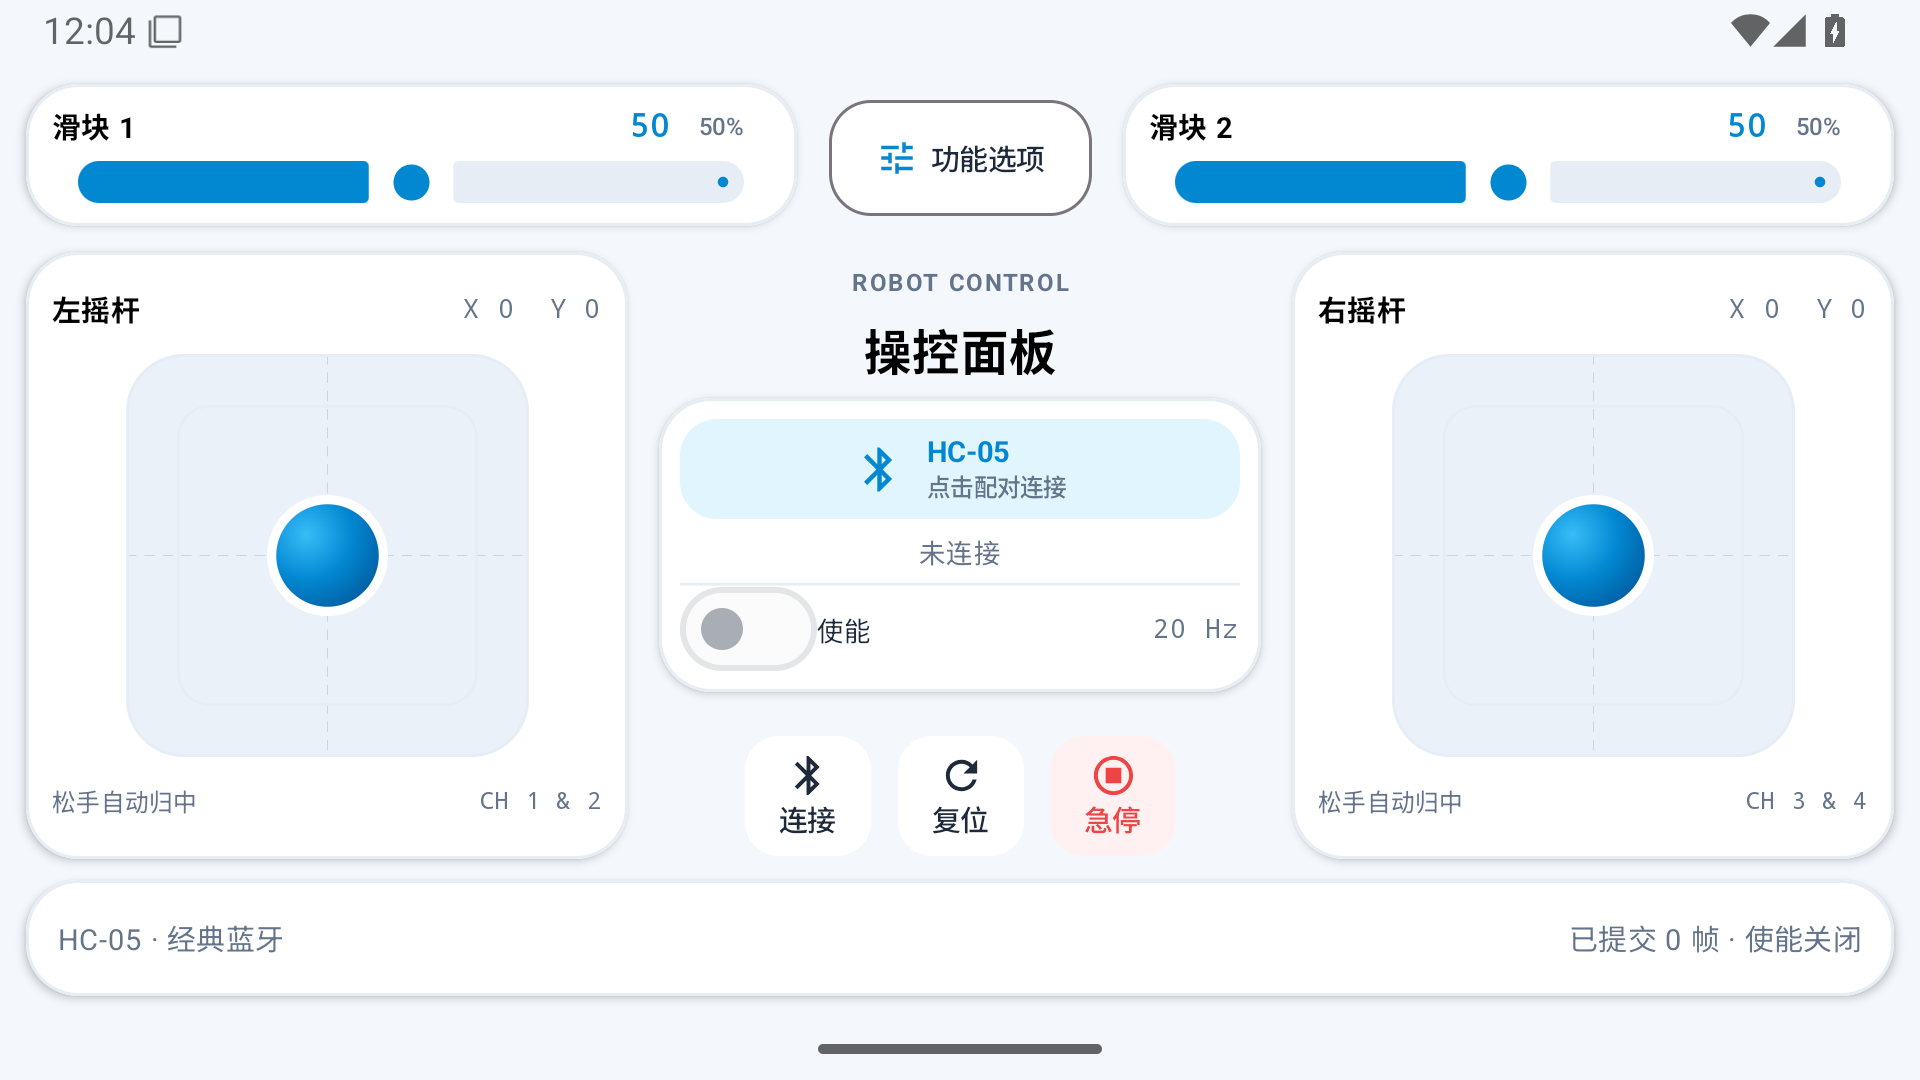
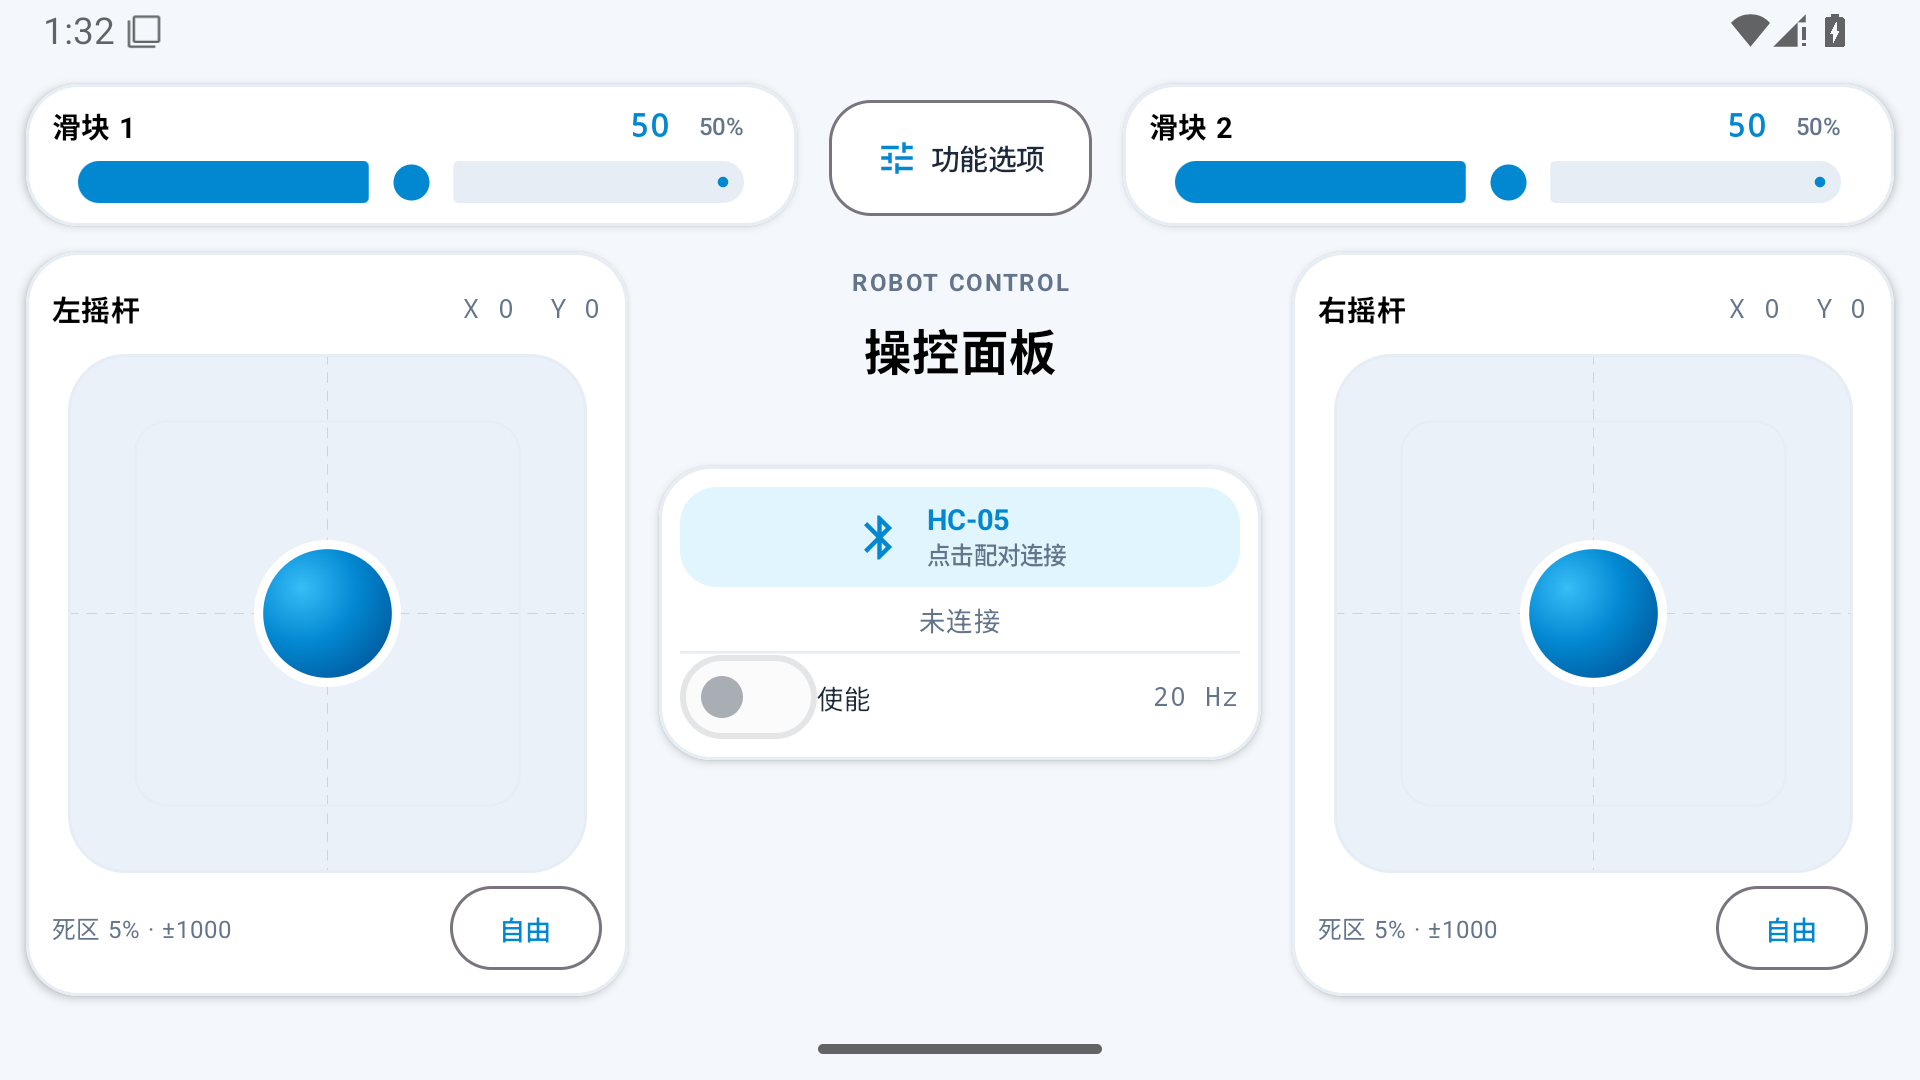
docs: record v1.2 verification and updated controller screenshot

diff --git a/docs/superpowers/plans/2026-10-10-joystick-settings.md b/docs/superpowers/plans/2026-10-10-joystick-settings.md
@@ -14,19 +14,21 @@
 - 签名凭据只留本机。
 
 ### Task 1: 输入映射
-- [ ] 新建 JoystickConfigTest.kt：5% 死区下输入 (525,40) 输出 (500,0)；横向 (1000,1000) 输出 (1000,0)；纵向输出 (0,1000)；设置最大值 255 对应端点 ±255。
-- [ ] 运行测试，确认因缺少 JoystickConfig 而失败。
-- [ ] 新建 JoystickConfig.kt：JoystickMode 枚举、配置与 map(x:Int,y:Int):Pair<Int,Int>，独立线性死区映射与限幅。
-- [ ] 全部 Kotlin 单元测试通过。
+- [x] 新建 JoystickConfigTest.kt：5% 死区下输入 (525,40) 输出 (500,0)；横向 (1000,1000) 输出 (1000,0)；纵向输出 (0,1000)；设置最大值 255 对应端点 ±255。
+- [x] 运行测试，确认因缺少 JoystickConfig 而失败。
+- [x] 新建 JoystickConfig.kt：JoystickMode 枚举、配置与 map(x:Int,y:Int):Pair<Int,Int>，独立线性死区映射与限幅。
+- [x] 全部 Kotlin 单元测试通过。
 
 ### Task 2: 接入界面与保存
-- [ ] RemoteViewModel.kt 添加 stickConfigs、setStickConfig(index:Int,config:JoystickConfig)、cycleStickMode(index:Int)，配置更改清零该摇杆；axes 调用 map。
-- [ ] 删除 FunctionKey、keys、setKey 和三个按钮位置 ID；EditablePanel.kt 删除按钮与测宽，摇杆底部添加方向切换。
-- [ ] MainActivity.kt Joystick 接收 config，用 config 作为 pointerInput 键取消旧手势，绘制按 maxValue 缩放；SettingsDialog 添加两个摇杆死区滑块与范围输入及应用按钮。
-- [ ] ControllerUiTest.kt 保留布局/双指测试，替换删除按钮测试为模式、死区、范围与保存测试。
+- [x] RemoteViewModel.kt 添加 stickConfigs、setStickConfig(index:Int,config:JoystickConfig)、cycleStickMode(index:Int)，配置更改清零该摇杆；axes 调用 map。
+- [x] 删除 FunctionKey、keys、setKey 和三个按钮位置 ID；EditablePanel.kt 删除按钮与测宽，摇杆底部添加方向切换。
+- [x] MainActivity.kt Joystick 接收 config，用 config 作为 pointerInput 键取消旧手势，绘制按 maxValue 缩放；SettingsDialog 添加两个摇杆死区滑块与范围输入及应用按钮。
+- [x] ControllerUiTest.kt 保留布局/双指测试，替换删除按钮测试为模式、死区、范围与保存测试。
 
 ### Task 3: 验证交付
-- [ ] 更新使用说明，versionCode 3 / versionName 1.2.0。
-- [ ] 运行 Kotlin、C 测试和 diff 检查；独立代码审查并修复重要问题。
-- [ ] 推送源码，GitHub Actions 验证构建与模拟器测试，检查截图。
-- [ ] 下载未签名 APK，本机签名并验证相同证书、版本与 SHA256，发布 v1.2.0 APK 和校验文件。
+- [x] 更新使用说明，versionCode 3 / versionName 1.2.0。
+- [x] 运行 Kotlin、C 测试和 diff 检查；独立代码审查并修复重要问题。
+- [x] 推送源码，GitHub Actions 验证构建与模拟器测试，检查截图。
+- [x] 下载未签名 APK，本机签名并验证相同证书、版本与 SHA256，发布 v1.2.0 APK 和校验文件。
+
+追加底部状态横条移除已纳入实现、测试与最终 APK。最终验证与交付见 docs/validation.md。

diff --git a/docs/validation.md b/docs/validation.md
@@ -1,3 +1,23 @@
+# v1.2.0 验证记录
+
+- 删除底部连接、复位、急停按钮及 HC-05 白色状态横条，编辑布局时保留操作工具栏。
+- 两个摇杆分别保存死区（0～30%，默认 5%）、最大绝对值（1～1000）与自由／仅横向／仅纵向模式。死区外线性映射，方向限制、松手、取消和配置变更归零。
+- Android 单元测试 22 项通过（协议 7、布局 9、摇杆计算 6）。
+- Android 15 横屏模拟器交互测试 10 项通过，覆盖按钮和状态条删除、设置应用与重新加载、双指独立操作、模式切换、旧触摸取消与新触摸恢复、死区、范围、布局草稿/保存/取消/恢复及边缘限位。设置输入测试包含点击输入框并滚动操作；这是模拟器操作序列验证。
+- Android debug/release APK 编译、两套 STM32 主机行为测试与目标源文件编译通过；协议和 STM32 源文件没有改变。
+- [实际截图](controller.png)已核对。独立代码审查没有留下重要问题。
+- APK versionCode 3 / versionName 1.2.0，在本机使用原密钥签名，v2/v3 签名和对齐验证通过；签名密钥与密码未上传。
+
+最终运行代码 `6055aea5869b34e5877a12f691257eb112b7caa4` 的 [GitHub Actions 38055858231](https://github.com/Norlive666/remote-control/actions/runs/38055858231) 全部成功。APK 来自此构建的未签名 release 产物，后续文档和截图提交不改变运行代码。
+
[1 lines of base64/hex data omitted]
+
[1 lines of base64/hex data omitted]
+
+尚未连接真实手机、HC-05、FSC-BT630 或开发板；无线距离、实际延迟和板上通信仍需实测。
+
+---
+
 # v1.1.0 验证记录
 
 - 采用用户提供 HTML 的卡片布局，并保留八个独立可拖动组件。
